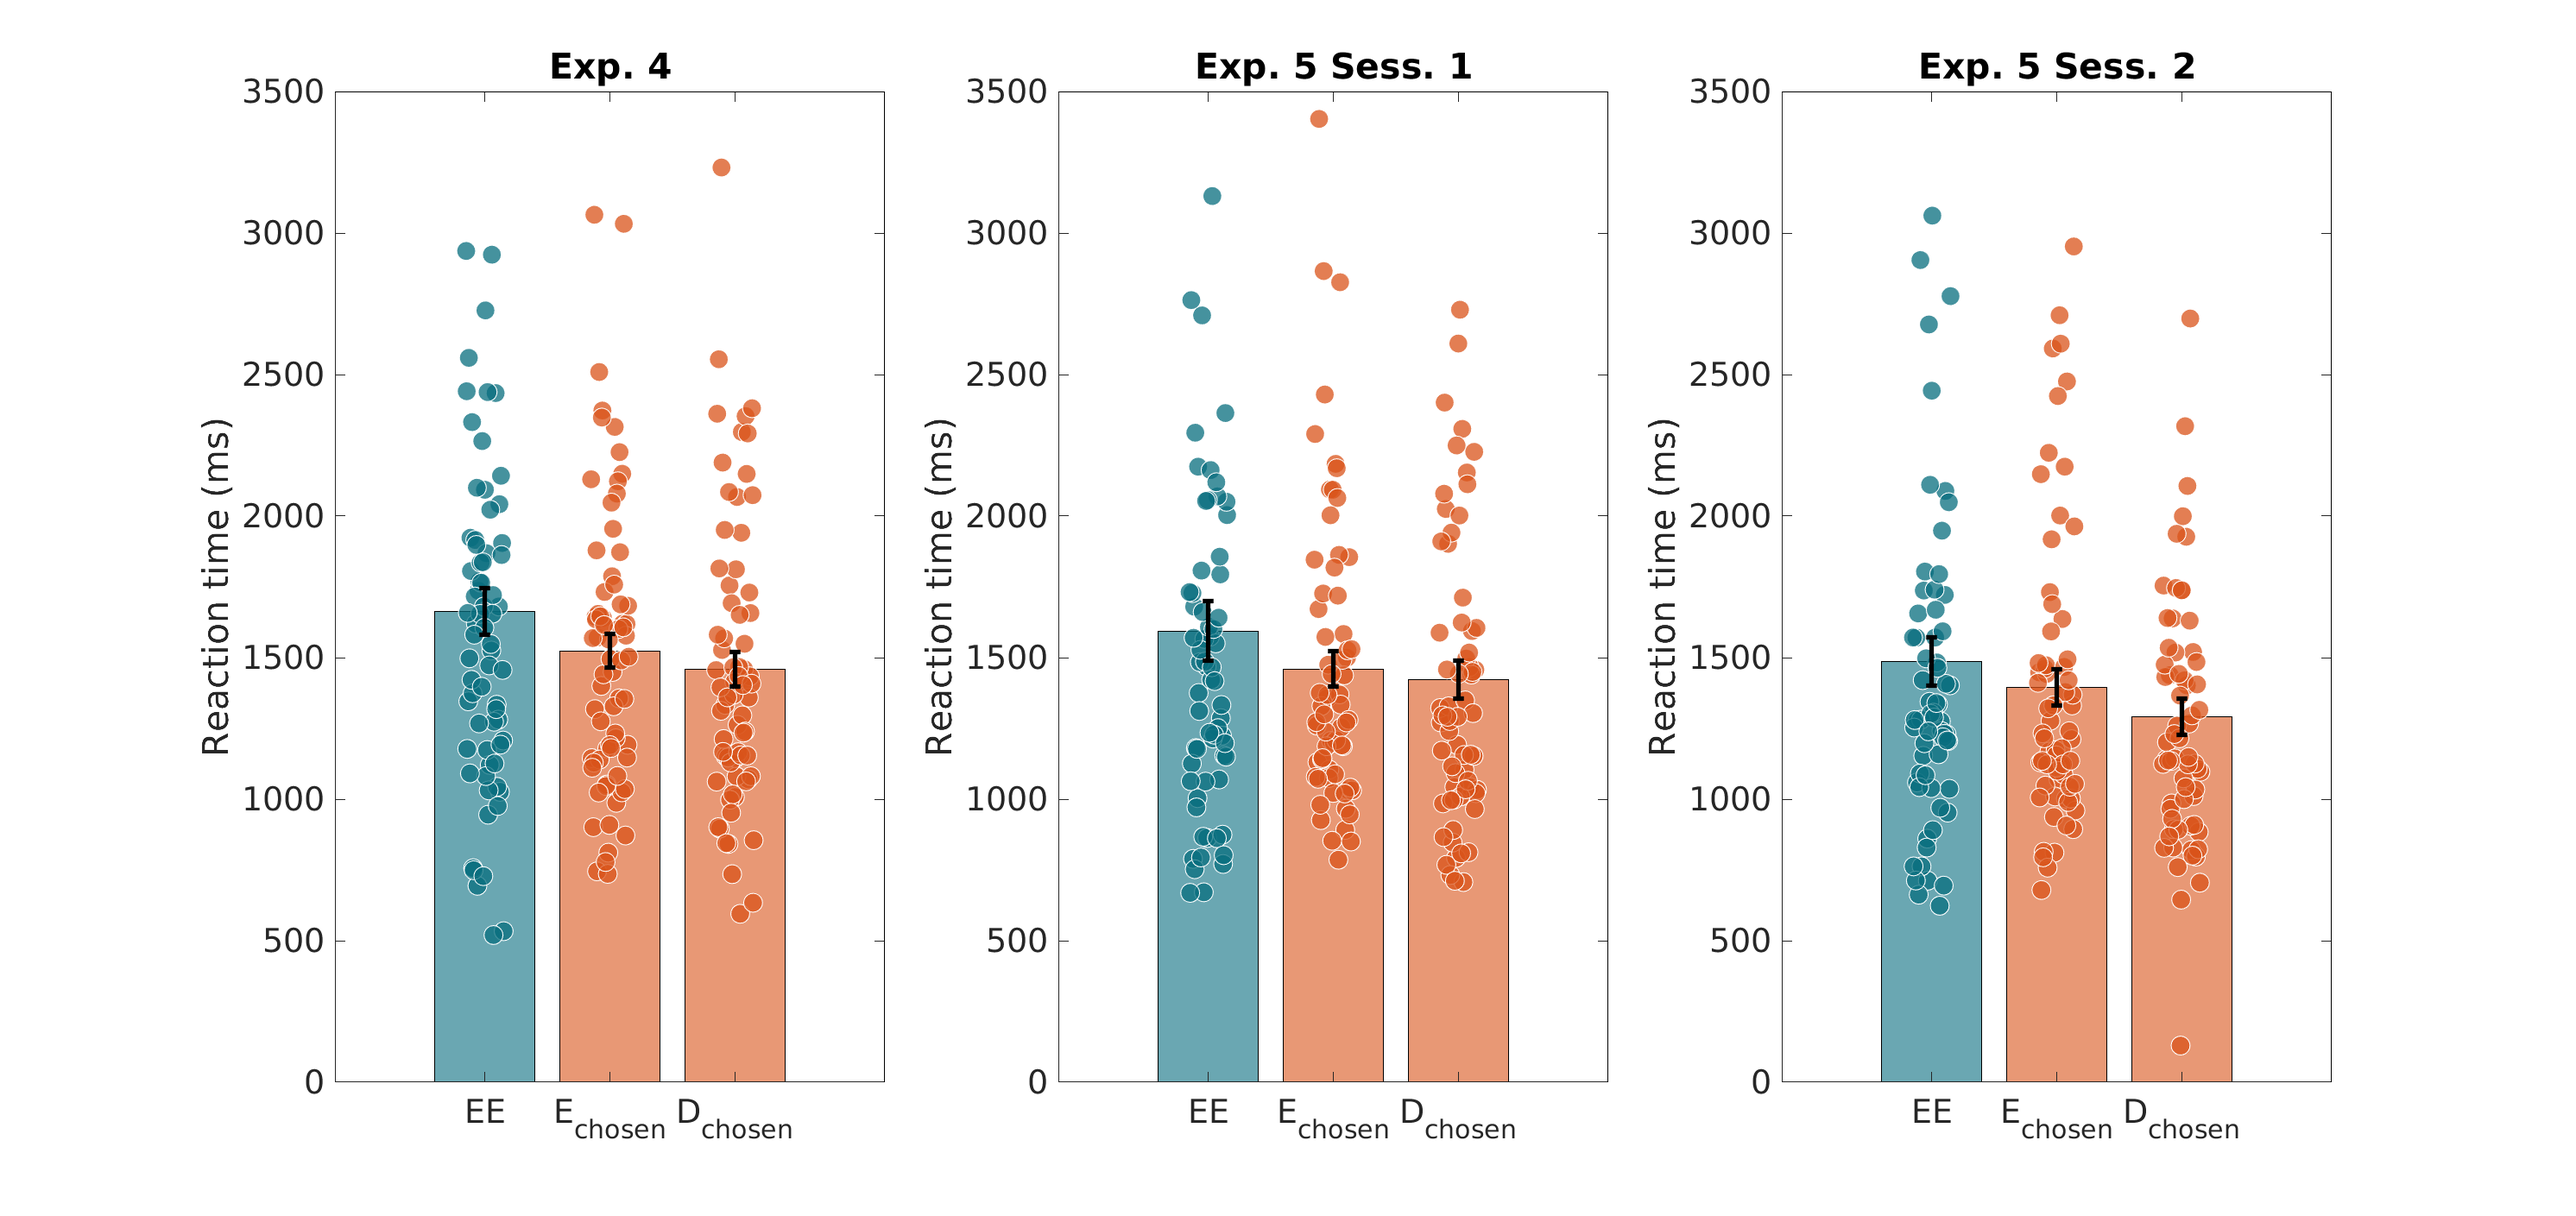
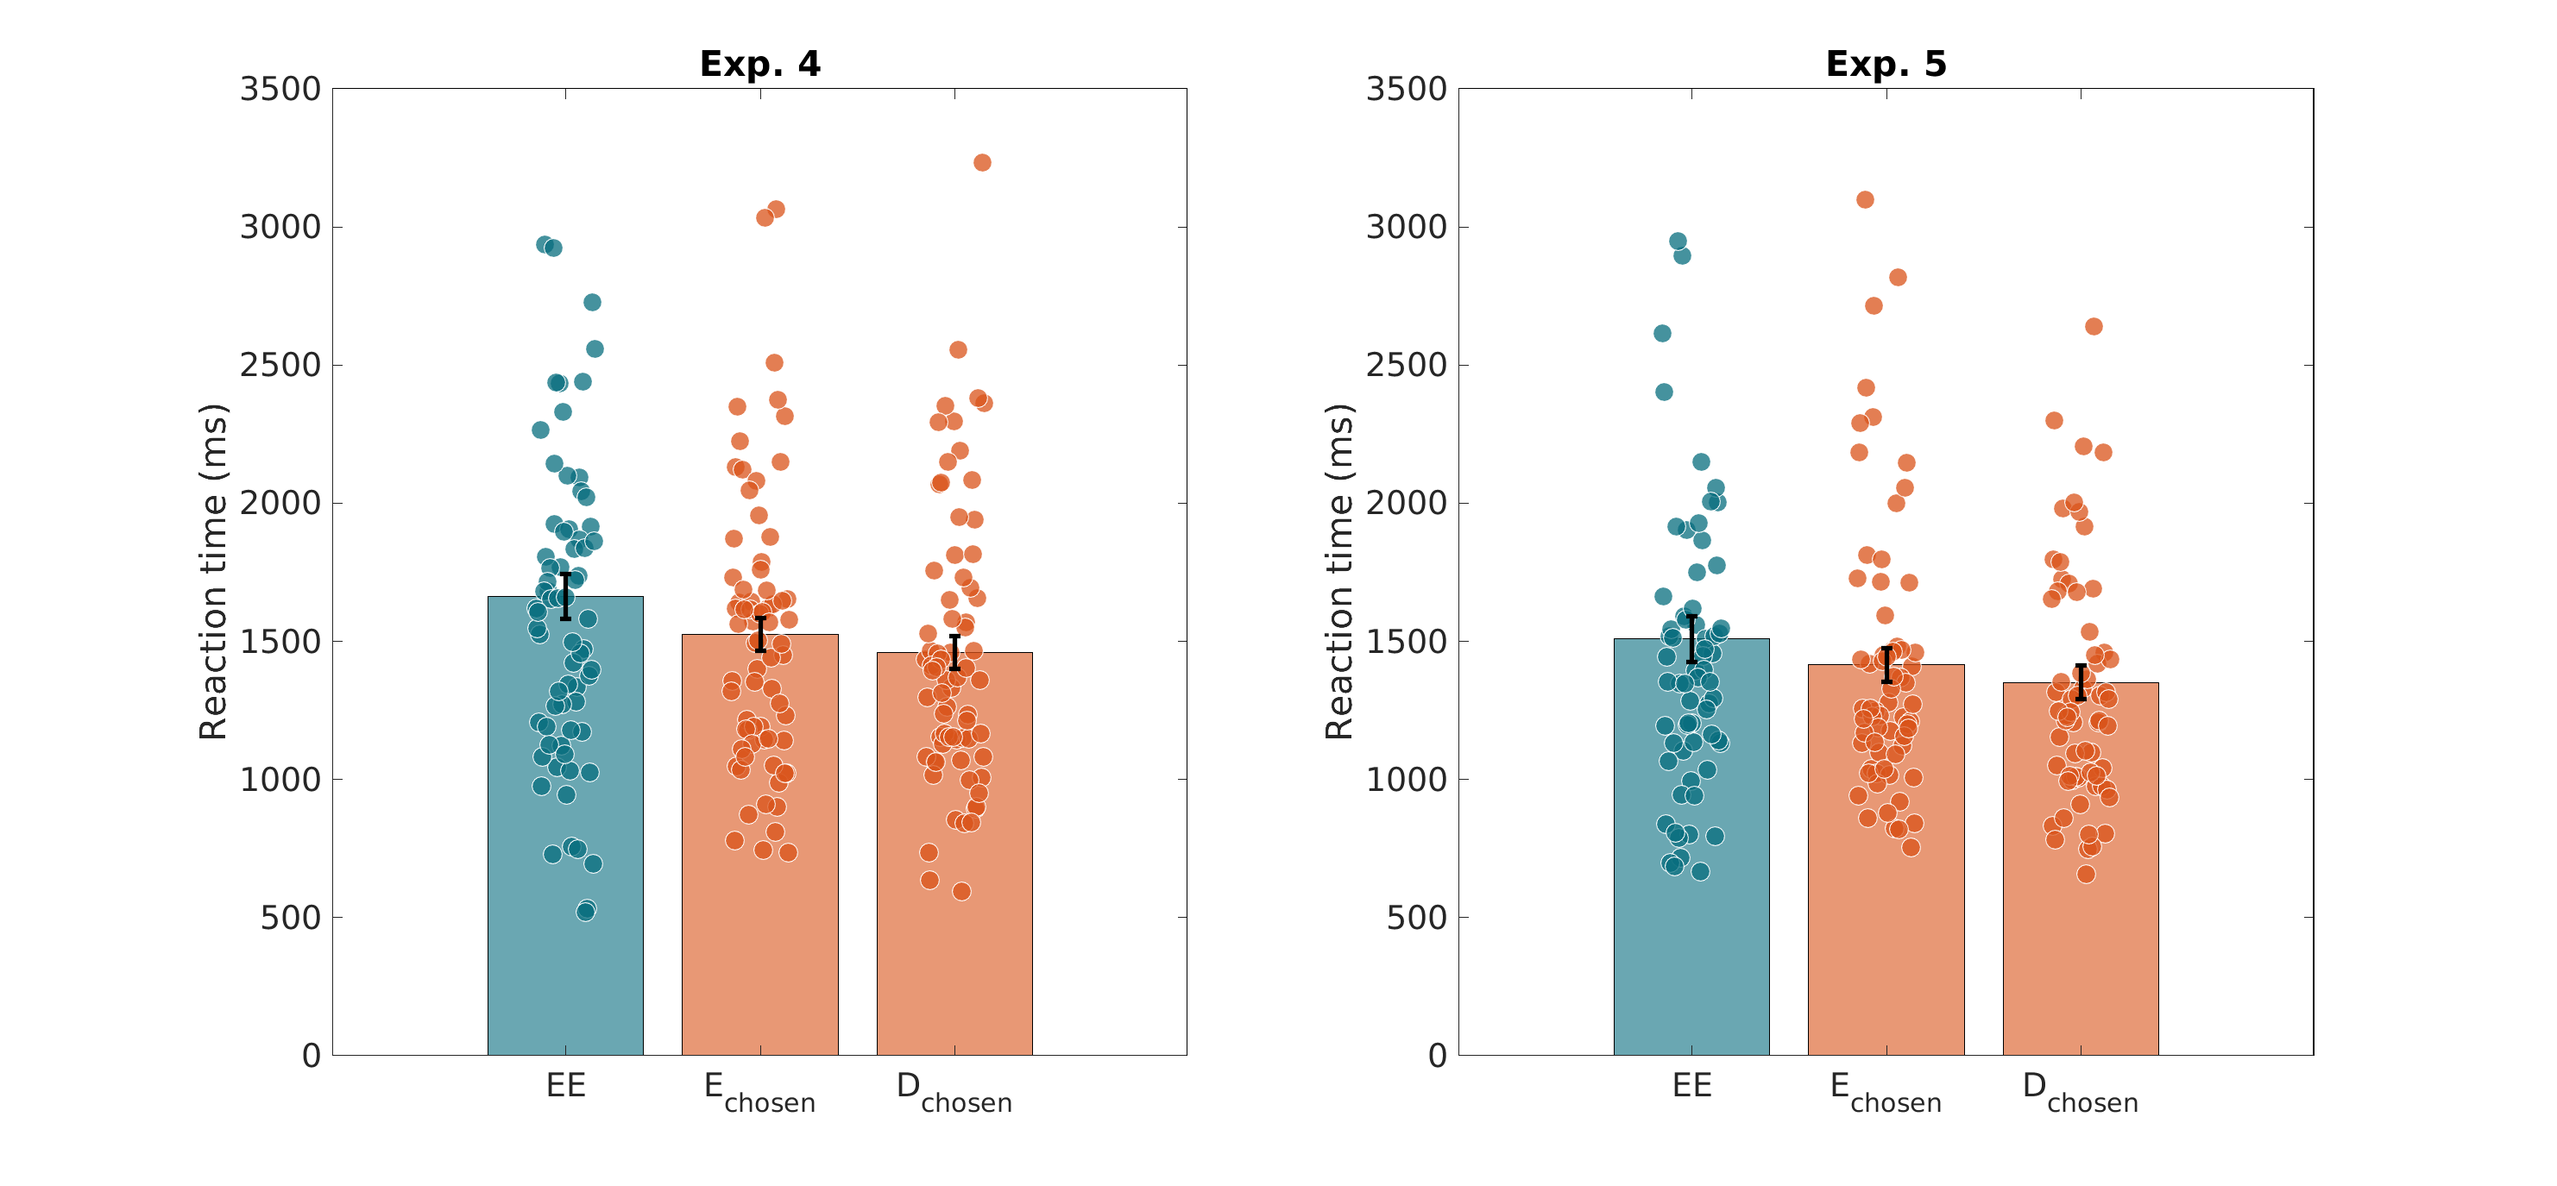
update

diff --git a/reaction_times.m b/reaction_times.m
@@ -7,13 +7,13 @@ init;
 %------------------------------------------------------------------------
 % Plot fig 2.A
 %------------------------------------------------------------------------
-f = {filenames{[1, 2, 3]}};
-plot_reaction_times_1_2_3(d, idx, orange_color, blue_color, f)
-saveas(gcf, 'fig/exp/all/reaction_times_1_2_3.png');
+%f = {filenames{[1, 2, 3]}};
+%plot_reaction_times_1_2_3(d, idx, orange_color, blue_color, f)
+%saveas(gcf, 'fig/exp/all/reaction_times_1_2_3.png');
 
-% f = {filenames{[4, 5]}};
-% plot_reaction_times_4_5_6(d, idx, orange_color, blue_color, f)
-% saveas(gcf, 'fig/exp/all/reaction_times_4_5_6.png');
+f = {filenames{[4, 5]}};
+plot_reaction_times_4_5_6(d, idx, orange_color, blue_color, f)
+saveas(gcf, 'fig/exp/all/reaction_times_4_5_6.png');
 
 
 function plot_reaction_times_4_5_6(d, idx, orange_color, blue_color, exp_names)
@@ -21,22 +21,17 @@ function plot_reaction_times_4_5_6(d, idx, orange_color, blue_color, exp_names)
     i = 1;
     format shortg
     figure('Position', [1,1,1900,900]);
-    titles = {'Exp. 4', 'Exp. 5 Sess. 1', 'Exp. 5 Sess. 2'};
+    titles = {'Exp. 4', 'Exp. 5'};
          
-    for exp_name = {exp_names{:}, exp_names{end}}
-        if i == 3
-            session = 1;
-        else
-            session = 0;
-        end
-        subplot(1, 3, i);
+    for exp_name = {exp_names{:}}
+        subplot(1, 2, i);
         
         exp_name = char(exp_name);
         nsub = d.(exp_name).nsub;
      
         [corr2, cho, out, p1, p2, ev1, ev2, ctch, cont1, cont2, dist, rtime] = ...
             DataExtraction.extract_sym_vs_lot_post_test(...
-            d.(exp_name).data, d.(exp_name).sub_ids, idx, session);
+            d.(exp_name).data, d.(exp_name).sub_ids, idx, [0, 1]);
         
         for sub = 1:nsub
             mask_equal_ev = logical(ev1(sub, :) ~= ev2(sub, :));
@@ -53,7 +48,7 @@ function plot_reaction_times_4_5_6(d, idx, orange_color, blue_color, exp_names)
         
         [corr1, cho, out, p1, p2, ev1, ev2, ctch, cont1, cont2, dist, rtime] = ...
             DataExtraction.extract_sym_vs_sym_post_test(...
-            d.(exp_name).data, d.(exp_name).sub_ids, idx, session);
+            d.(exp_name).data, d.(exp_name).sub_ids, idx, [0, 1]);
    
         for sub = 1:nsub
             d4 = rtime(sub, :);

diff --git a/post_test_bar_plot.m b/post_test_bar_plot.m
@@ -22,24 +22,20 @@ function plot_bar_plot_correct_choice_rate(d, idx, orange_color, blue_color, exp
     i = 1;
     
     figure('Position', [1,1,1920,1020]);
-    titles = {'Exp. 4', 'Exp. 5 Sess. 1', 'Exp. 5 Sess. 2'};
+    titles = {'Exp. 4', 'Exp. 5'};
     
     [corr_heuristic, corr_rate1, corr_rate2] = run_simulation();
      
-    for exp_name = {exp_names{:}, exp_names{end}}
-        if i == 3
-            session = 1;
-        else
-            session = 0;
-        end
-        subplot(1, 3, i);
+    for exp_name = {exp_names{:}}
+       
+        subplot(1, 2, i);
         
         exp_name = char(exp_name);
         nsub = d.(exp_name).nsub;
      
         [corr2, cho, out, p1, p2, ev1, ev2, ctch, cont1, cont2, dist, rtime] = ...
             DataExtraction.extract_sym_vs_lot_post_test(...
-            d.(exp_name).data, d.(exp_name).sub_ids, idx, session);
+            d.(exp_name).data, d.(exp_name).sub_ids, idx, [0, 1]);
         
         for sub = 1:nsub
             mask_equal_ev = logical(ev1(sub, :) ~= ev2(sub, :));
@@ -50,7 +46,7 @@ function plot_bar_plot_correct_choice_rate(d, idx, orange_color, blue_color, exp
         
         [corr1, cho, out, p1, p2, ev1, ev2, ctch, cont1, cont2, dist, rtime] = ...
             DataExtraction.extract_sym_vs_sym_post_test(...
-            d.(exp_name).data, d.(exp_name).sub_ids, idx, session);
+            d.(exp_name).data, d.(exp_name).sub_ids, idx, [0, 1]);
    
         if size(d1, 2) ~= size(corr1, 2)
             error('not the same number of trials');
